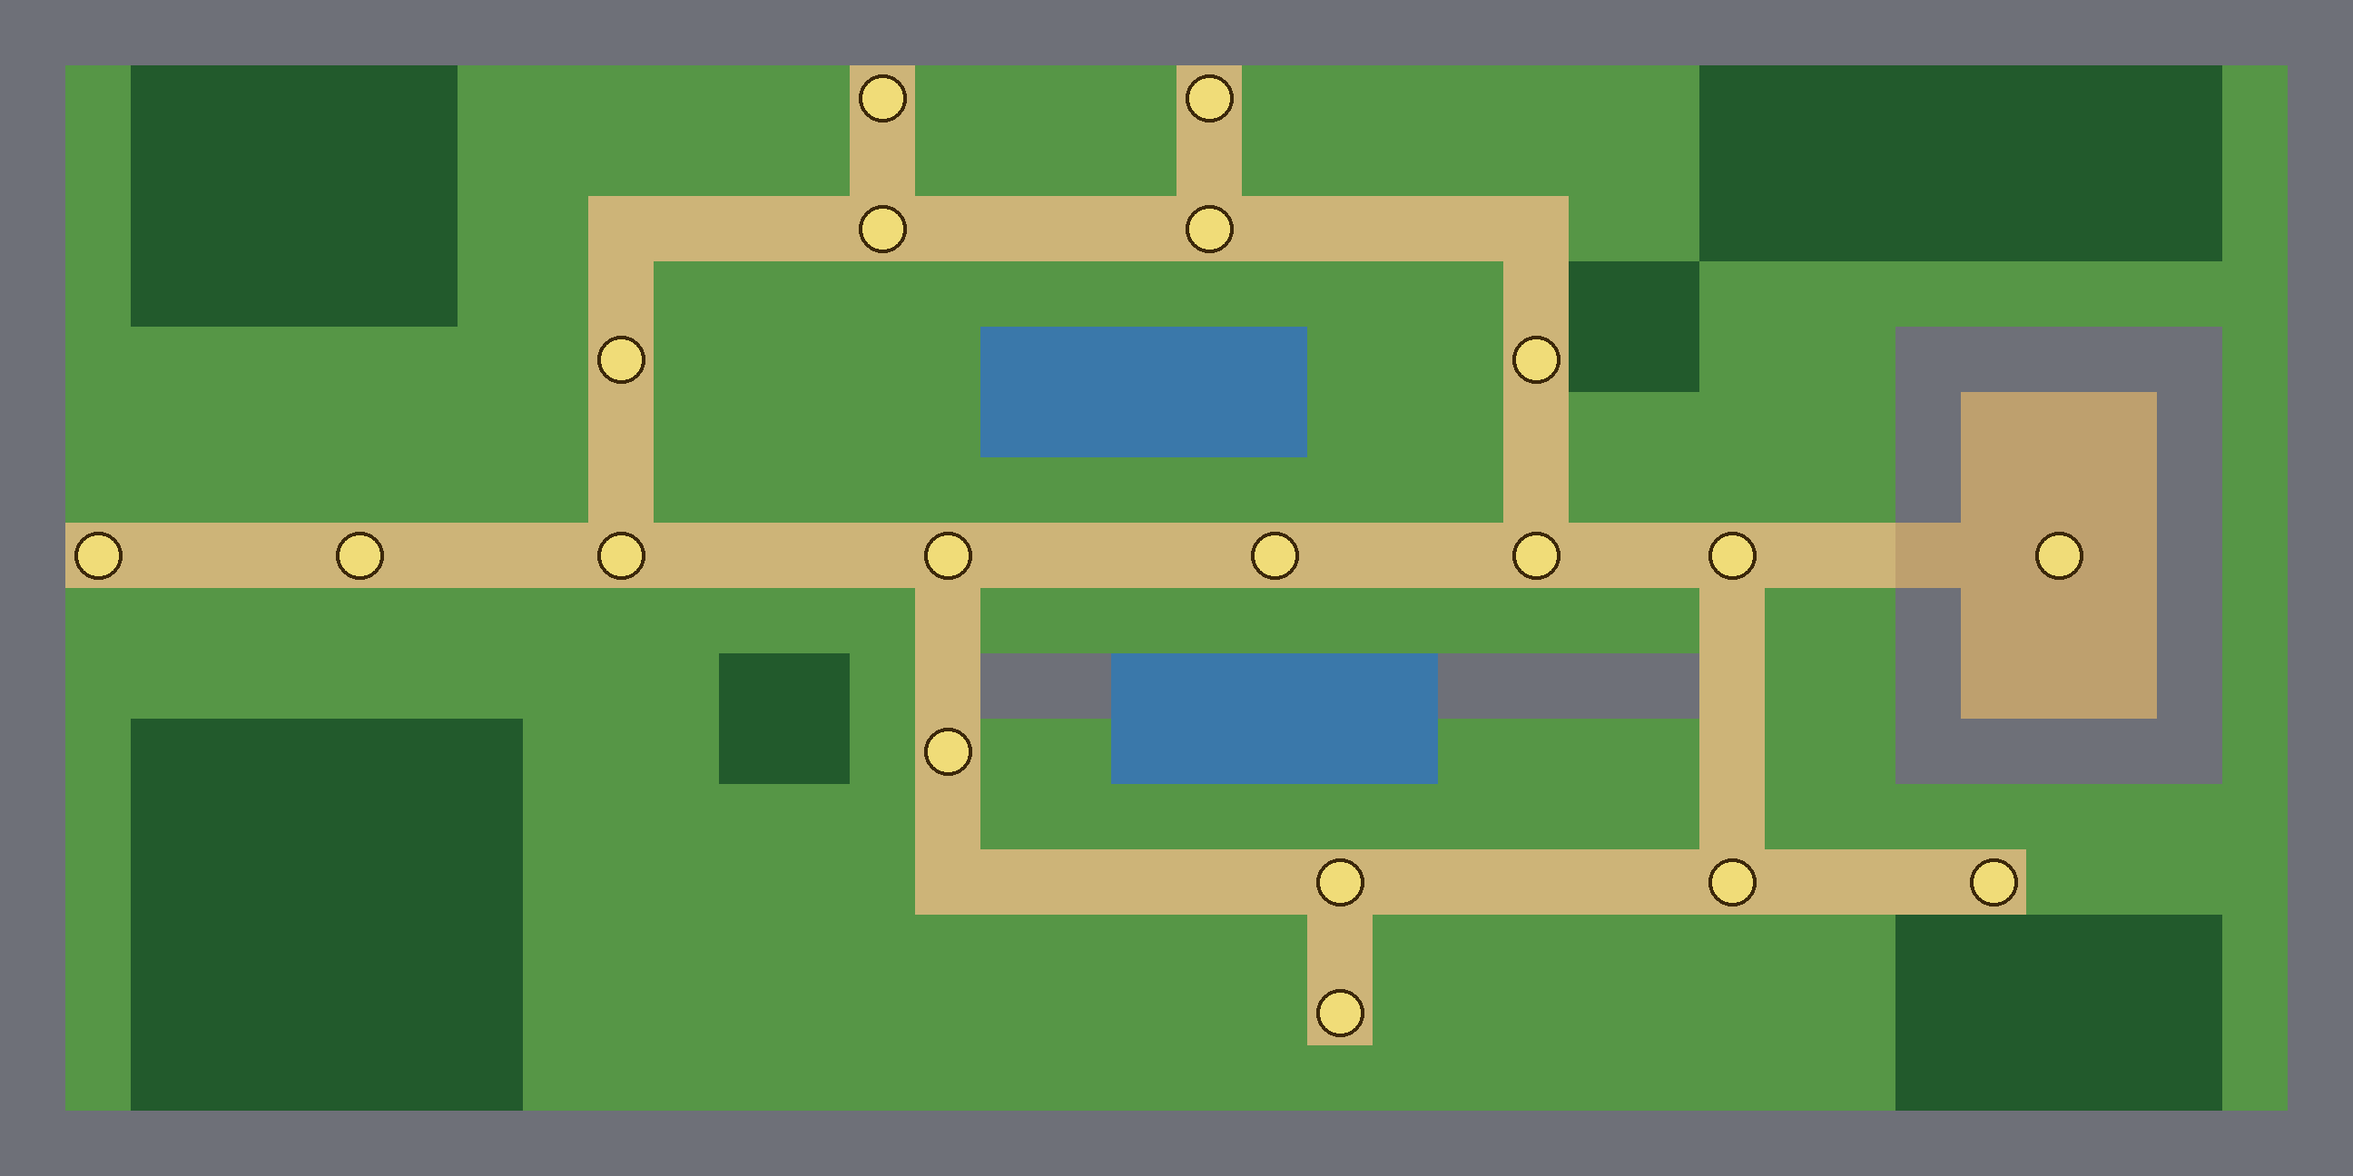
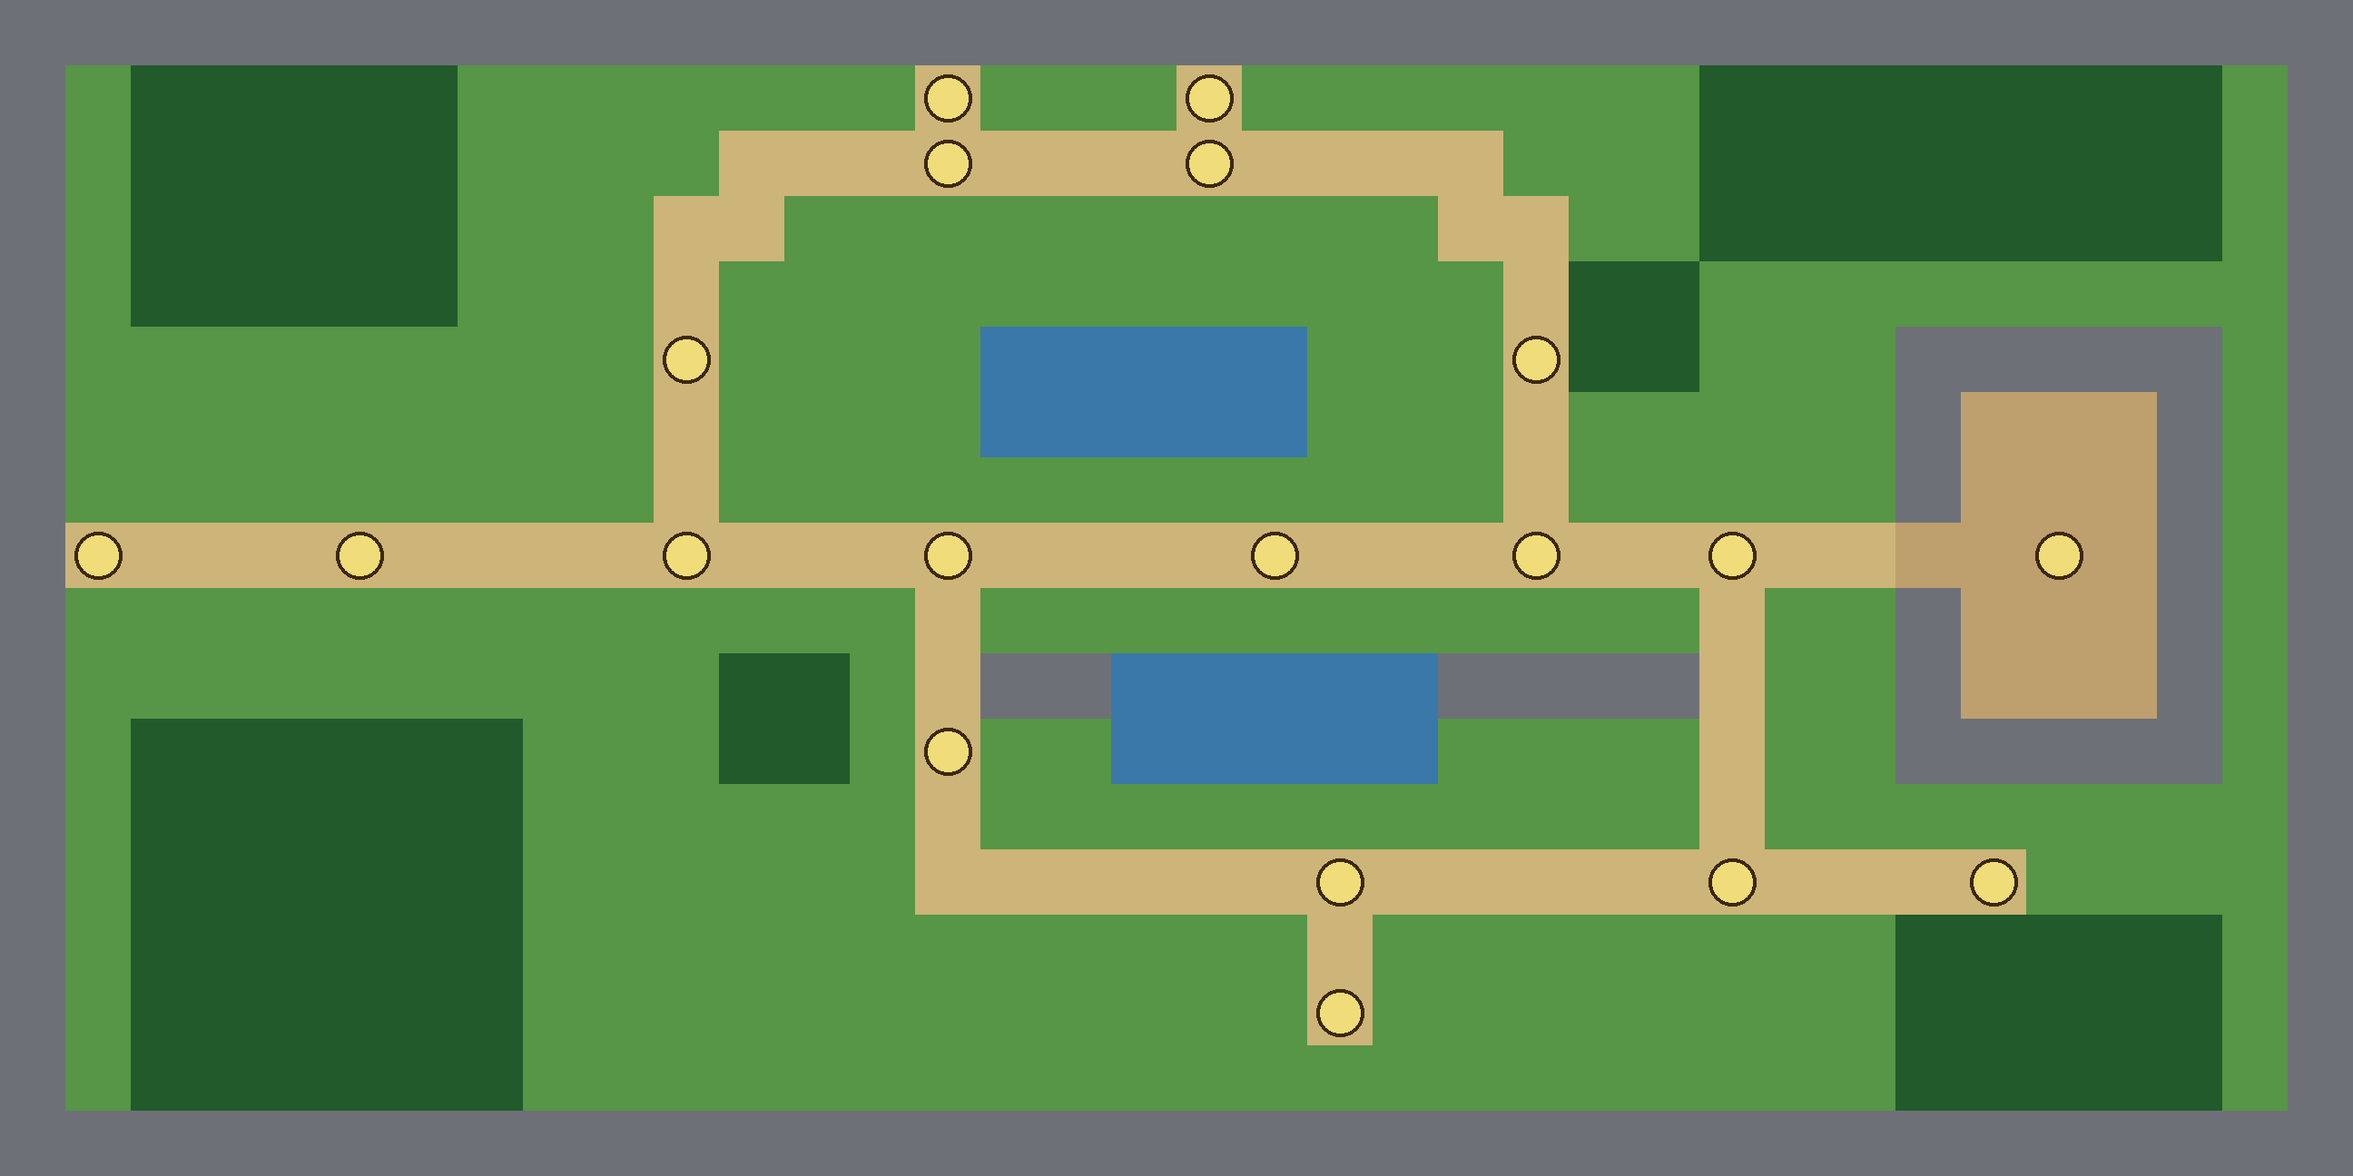
Painted overworld for screen 1, roads traced to it; sustain nerfs (Bind Wound 25%, shop heal 35%, shrine half)
DECISIONS #39. One painting per screen replaces the tileset when present;
a dev overlay (?dev) draws the code's roads over it for alignment. Screen
1's north loop moved to row 2 with its west side at column 10 to match
the painting. scripts/layout-image.py renders the layout reference.

Claude-Session: https://claude.ai/code/session_01KwKjcUHcbFeyUDFfhHkavE

Changed region(s): [[0.2812, 0.0309, 0.6562, 0.2469], [0.25, 0.1543, 0.3125, 0.4938]]

diff --git a/re-rpg/src/game/scenes/OverworldScene.ts b/re-rpg/src/game/scenes/OverworldScene.ts
@@ -16,8 +16,12 @@ import { ensureRun } from '@game/telemetry';
 
 /** World pixels per tile: about 11×5 tiles on a phone, close enough to read the ground. */
 export const TILE = 72;
+/** Dev switches: `localStorage.setItem('rerpg:dev', '1')` or `?dev` in the URL. */
+export const devMode = (): boolean => { try { return localStorage.getItem('rerpg:dev') === '1' || location.search.includes('dev'); } catch { return false; } };
 const K = TILE / 48;
 const STEP_MS = 105;
+/** A shrine heals this share of max HP (DECISIONS #39); it used to heal everything. */
+const SHRINE_HEAL = 0.5;
 
 /**
  * The node overworld (DECISIONS #37). The authored terrain is the backdrop; play happens on the
@@ -84,6 +88,13 @@ export class OverworldScene extends Phaser.Scene {
 
   private drawTiles() {
     const m = this.session.map;
+    // A painted map (docs/ART.md, DECISIONS #39) replaces the tileset when one exists for this screen.
+    const painted = `map_${m.screenIndex + 1}`;
+    if (this.textures.exists(painted)) {
+      this.add.image(0, 0, painted).setOrigin(0).setDisplaySize(m.width * TILE, m.height * TILE).setDepth(1);
+      if (devMode()) this.drawAlignmentOverlay();
+      return;
+    }
     if (!this.hasArt) {
       const fill: Record<string, number> = { grass: 0x3b6d3a, forest: 0x244d2a, swamp: 0x4a5b3a, water: 0x2b5d8a, rock: 0x4a4f5a, road: 0xb8a06a, arena: 0x5a2b3a };
       const g = this.add.graphics().setDepth(1);
@@ -97,6 +108,21 @@ export class OverworldScene extends Phaser.Scene {
     const tileset = tilemap.addTilesetImage('ground', 'ground_c', 96, 96, 0, 0);
     if (tileset) tilemap.createLayer(0, tileset, 0, 0)?.setScale(TILE / 96).setDepth(1);
     for (const p of propsFor(m)) this.add.image(p.x * TILE, p.y * TILE, 'props_c', p.frame).setOrigin(0.5, 1).setScale(p.scale * K).setDepth(2 + p.y / m.height);
+  }
+
+  /** Dev only: the code's roads and node ids over the painting, to line the two up. */
+  private drawAlignmentOverlay() {
+    const m = this.session.map;
+    const g = this.add.graphics().setDepth(3).setAlpha(0.45);
+    for (let y = 0; y < m.height; y++) for (let x = 0; x < m.width; x++) {
+      const t = m.tiles[y * m.width + x]!;
+      if (t === 'road' || t === 'arena') { g.fillStyle(t === 'road' ? 0xff00ff : 0xffff00, 1); g.fillRect(x * TILE + 8, y * TILE + 8, TILE - 16, TILE - 16); }
+      else if (t === 'water') { g.fillStyle(0x00ffff, 1); g.fillRect(x * TILE + 20, y * TILE + 20, TILE - 40, TILE - 40); }
+    }
+    g.lineStyle(1, 0xffffff, 0.25);
+    for (let x = 0; x <= m.width; x++) g.lineBetween(x * TILE, 0, x * TILE, m.height * TILE);
+    for (let y = 0; y <= m.height; y++) g.lineBetween(0, y * TILE, m.width * TILE, y * TILE);
+    for (const n of m.nodes ?? []) this.add.text(n.pos.x * TILE + 4, n.pos.y * TILE + 2, `${n.id.replace('node_', '')} ${n.pos.x},${n.pos.y}`, { fontFamily: FONT, fontSize: '11px', color: '#ffffff', backgroundColor: '#000000aa' }).setDepth(8);
   }
 
   private label(y: number, str: string, color = '#e6e9f2', size = 12) {
@@ -361,8 +387,8 @@ export class OverworldScene extends Phaser.Scene {
       }
       case 'shrine': {
         if (isCleared(s, n)) { void this.toast('The shrine is dark now.', 900); this.locked = false; this.syncRings(); return; }
-        s.hp = s.stats.maxHp;
-        void this.toast('Shrine: fully healed. It fades.');
+        s.hp = Math.min(s.stats.maxHp, s.hp + Math.round(s.stats.maxHp * SHRINE_HEAL));
+        void this.toast('Shrine: half your wounds close. It fades.');
         await done(); return;
       }
       default: {

diff --git a/re-rpg/src/core/combat/engine.test.ts b/re-rpg/src/core/combat/engine.test.ts
@@ -147,15 +147,15 @@ describe('statuses', () => {
     expect(hasStatus(s.enemy, 'exposed')).toBe(false);
   });
 
-  it('Bind Wound heals 35% and leaves you Exposed for two rounds, never blocking anything', () => {
+  it('Bind Wound heals 25% and leaves you Exposed for two rounds, never blocking anything', () => {
     const s = fight(['bind_wound', 'attack'], DUMMY, 1, 10);
-    play(s, 'bind_wound'); // +round(0.35*25)=9 → 19, enemy hits 2 doubled → 15
-    expect(s.player.hp).toBe(15);
+    play(s, 'bind_wound'); // +round(0.25*25)=6 → 16, enemy hits 2 doubled → 12
+    expect(s.player.hp).toBe(12);
     expect(hasStatus(s.player, 'exposed')).toBe(true);
     expect(hasStatus(s.player, 'guard')).toBe(false);
     expect(s.log.some((e) => e.t === 'damage' && e.target === 'player' && e.blocked)).toBe(false);
-    play(s, 'attack'); // still exposed: 2 doubled → 11, then it expires
-    expect(s.player.hp).toBe(11);
+    play(s, 'attack'); // still exposed: 2 doubled → 8, then it expires
+    expect(s.player.hp).toBe(8);
     expect(hasStatus(s.player, 'exposed')).toBe(false);
   });
 
@@ -353,8 +353,8 @@ describe('curse and lifetap', () => {
   it('curse ticks like burn and halves healing while it lasts', () => {
     const s = fight(['bind_wound'], PASSIVE, 1, 10);
     s.player.statuses.push({ id: 'curse', turns: 3, magnitude: 2 });
-    play(s, 'bind_wound'); // heal 9 → halved to 4 → 14; then curse ticks 2 → 12 (passive enemy: Exposed never bites)
-    expect(s.player.hp).toBe(12);
+    play(s, 'bind_wound'); // heal 6 → halved to 3 → 13; then curse ticks 2 → 11 (passive enemy: Exposed never bites)
+    expect(s.player.hp).toBe(11);
     expect(s.log.find((e) => e.t === 'burn')).toMatchObject({ status: 'curse', amount: 2 });
   });
 

diff --git a/re-rpg/src/data/describe.test.ts b/re-rpg/src/data/describe.test.ts
@@ -22,7 +22,7 @@ describe('describeSkill', () => {
   });
 
   it('covers heals, guards, statuses, multi-hit and lifesteal', () => {
-    expect(describeSkill(getSkill('bind_wound'), warrior)).toBe('Heal 9 HP. You are Exposed for 2 rounds. Once per fight.');
+    expect(describeSkill(getSkill('bind_wound'), warrior)).toBe('Heal 6 HP. You are Exposed for 2 rounds. Once per fight.');
     expect(describeSkill(getSkill('ice_armor'), warrior)).toBe('Block the next 2 physical hits.');
     expect(describeSkill(getSkill('fireball'), { maxHp: 20, atk: 5, def: 0 })).toBe('Deal 8 magic damage. Burn 2 per round for 2 rounds.');
     expect(describeSkill(getSkill('frost_bolt'), { maxHp: 20, atk: 5, def: 0 })).toBe('Deal 6 magic damage. 65% chance: Chill: the enemy skips its next action.');
@@ -47,7 +47,7 @@ describe('cardFace', () => {
     expect(cardFace(getSkill('attack'), warrior)).toEqual({ kind: 'attack', value: '4', unit: 'damage' });
     expect(cardFace(getSkill('defend'), warrior)).toEqual({ kind: 'defense', value: '1', unit: 'hit' });
     expect(cardFace(getSkill('ward'), warrior)).toEqual({ kind: 'defense', value: '1', unit: 'spell' });
-    expect(cardFace(getSkill('bind_wound'), warrior)).toEqual({ kind: 'heal', value: '9', unit: 'heal' });
+    expect(cardFace(getSkill('bind_wound'), warrior)).toEqual({ kind: 'heal', value: '6', unit: 'heal' });
     expect(cardFace(getSkill('fireball'), warrior)).toEqual({ kind: 'magic', value: '6', unit: 'magic' });
     expect(cardFace(getSkill('ice_armor'), warrior)).toEqual({ kind: 'defense', value: '2', unit: 'hits' });
     expect(cardFace(getSkill('static_field'), warrior)).toEqual({ kind: 'magic', value: '3×3', unit: 'burn' });

diff --git a/re-rpg/src/data/skills.ts b/re-rpg/src/data/skills.ts
@@ -30,8 +30,8 @@ export const SKILLS: Skill[] = [
   { id: 'shield_bash', name: 'Shield Bash', text: 'Deal 60% damage and block the next hit. Tiring: Weak next turn.', classId: 'warrior', setId: 'warrior_tank', rarity: 'common',
     effects: [{ type: 'damage', mult: 0.6 }, { type: 'status', target: 'self', status: 'guard', turns: 99, magnitude: 1 }, { type: 'status', target: 'self', status: 'weak', turns: 2 }] },
   // Once per fight (DECISIONS #38): a second and third Bind Wound in a long duo fight healed back most of what duos deal.
-  { id: 'bind_wound', name: 'Bind Wound', text: 'Heal 35% HP. You are Exposed for 2 rounds.', classId: 'warrior', setId: 'warrior_tank', rarity: 'uncommon', uses: 'once_per_fight',
-    effects: [{ type: 'heal', pct: 0.35 }, { type: 'status', target: 'self', status: 'exposed', turns: 2 }] },
+  { id: 'bind_wound', name: 'Bind Wound', text: 'Heal 25% HP. You are Exposed for 2 rounds.', classId: 'warrior', setId: 'warrior_tank', rarity: 'uncommon', uses: 'once_per_fight',
+    effects: [{ type: 'heal', pct: 0.25 }, { type: 'status', target: 'self', status: 'exposed', turns: 2 }] },
 
   // Warrior / DPS
   { id: 'broadsword', name: 'Broadsword Strike', text: 'Deal 100% + 4 damage. You overextend: Exposed this round.', classId: 'warrior', setId: 'warrior_dps', rarity: 'common',

diff --git a/re-rpg/src/data/maps/screen1.ts b/re-rpg/src/data/maps/screen1.ts
@@ -1,18 +1,18 @@
 /**
  * Screen 1: the Gate Road (DECISIONS #37, node overworld). A static network of clearings joined by
- * roads; what each open slot holds is rolled per run. Generated by scripts/author-map.py forest;
- * legend in core/map/authored.ts.
+ * roads; what each open slot holds is rolled per run. Roads are traced from the painted map
+ * (public/art/c/map1.jpg). Generated by scripts/author-map.py forest; legend in core/map/authored.ts.
  */
 export const SCREEN1 = `
 ^^^^^^^^^^^^^^^^^^^^^^^^^^^^^^^^^^^^
-^.#####......o....o.......########.^
-^.#####......=....=.......########.^
-^.#####..====o====o=====..########.^
-^.#####..=.............=##.........^
-^........o.....~~~~~...o##...^^^^^.^
-^........=.....~~~~~...=.....^AAA^.^
-^........=.............=.....^AAA^.^
-^E===o===q====o====o===o==x==AABA^.^
+^.#####.......o...o.......########.^
+^.#####....===o===o====...########.^
+^.#####...==..........==..########.^
+^.#####...=............=##.........^
+^.........o....~~~~~...o##...^^^^^.^
+^.........=....~~~~~...=.....^AAA^.^
+^.........=............=.....^AAA^.^
+^E===o====q===o====o===o==x==AABA^.^
 ^.............=...........=..^AAA^.^
 ^..........##.=^^~~~~~^^^^=..^AAA^.^
 ^.######...##.o..~~~~~....=..^^^^^.^

diff --git a/re-rpg/src/data/maps/screen2.ts b/re-rpg/src/data/maps/screen2.ts
@@ -3,14 +3,14 @@
  */
 export const SCREEN2 = `
 ^^^^^^^^^^^^^^^^^^^^^^^^^^^^^^^^^^^^
-^.%%%%%......o....o.......%%%%%%%%.^
-^.%%%%%......=....=.......%%%%%%%%.^
-^.%%%%%..====o====o=====..%%%%%%%%.^
-^.%%%%%..=.............=%%.........^
-^........o.....~~~~~...o%%...^^^^^.^
-^........=.....~~~~~...=.....^AAA^.^
-^........=.............=.....^AAA^.^
-^E===o===q====o====o===o==x==AABA^.^
+^.%%%%%.......o...o.......%%%%%%%%.^
+^.%%%%%....===o===o====...%%%%%%%%.^
+^.%%%%%...==..........==..%%%%%%%%.^
+^.%%%%%...=............=%%.........^
+^.........o....~~~~~...o%%...^^^^^.^
+^.........=....~~~~~...=.....^AAA^.^
+^.........=............=.....^AAA^.^
+^E===o====q===o====o===o==x==AABA^.^
 ^.............=...........=..^AAA^.^
 ^..........%%.=^^~~~~~^^^^=..^AAA^.^
 ^.%%%%%%...%%.o..~~~~~....=..^^^^^.^

diff --git a/re-rpg/src/core/loot/index.ts b/re-rpg/src/core/loot/index.ts
@@ -143,5 +143,5 @@ export function rollShopStock(screenIndex: number, ctx: PoolContext, rng: Rng): 
     const skill = rng.weighted(pool.tomes, (s) => Math.max(1, rw[s.rarity] ?? 0));
     lines.push({ kind: 'tome', id: skill.id, price: tomePrice(skill.rarity, screenIndex), sold: false });
   }
-  return { lines, healPrice: 30 * (screenIndex + 1), healPct: 0.5, healUsed: false };
+  return { lines, healPrice: 30 * (screenIndex + 1), healPct: 0.35, healUsed: false };
 }

diff --git a/re-rpg/src/game/scenes/BootScene.ts b/re-rpg/src/game/scenes/BootScene.ts
@@ -24,6 +24,7 @@ export const ART_FILES: Record<string, string> = {
   enemy_rat_pack_c: 'art/c/rat_pack@2x.png',
   enemy_gatekeeper_c: 'art/c/gatekeeper@2x.png', // Knight Andre
   bg_forest: 'art/c/bg_forest.jpg',
+  map_1: 'art/c/map1.jpg', // painted screen 1 (docs/ART.md); the tileset draws when a screen has no painting
 };
 
 /** Wires persistence and loads meta before the title shows. Optional art loads here too. */

diff --git a/re-rpg/scripts/author-map.py b/re-rpg/scripts/author-map.py
@@ -27,13 +27,13 @@ def screen(biome):
     # main road and arena
     hline(g, 8, 1, 28)
     rect(g, 29, 5, 33, 11, '^'); rect(g, 30, 6, 32, 10, 'A'); put(g, 29, 8, 'A'); put(g, 31, 8, 'B')
-    # north lane with two spurs
-    vline(g, 9, 3, 7); hline(g, 3, 9, 23); vline(g, 23, 4, 7); vline(g, 13, 1, 2); vline(g, 18, 1, 2)
+    # north lane with two spurs (traced from the screen-1 painting: row 2, west side at x=10, rounded corners)
+    vline(g, 10, 3, 7); hline(g, 2, 11, 22); put(g, 11, 3, '='); put(g, 22, 3, '='); put(g, 23, 3, '='); vline(g, 23, 4, 7); put(g, 14, 1, '='); put(g, 18, 1, '=')
     # south lane with a spur and the road east to the lost one
     vline(g, 14, 9, 13); hline(g, 13, 14, 30); vline(g, 26, 9, 12); vline(g, 20, 14, 15)
     # nodes: every road junction is a node, so a link never forks between nodes
-    put(g, 1, 8, 'E'); put(g, 5, 8, 'o'); put(g, 9, 8, 'q'); put(g, 14, 8, 'o'); put(g, 19, 8, 'o'); put(g, 23, 8, 'o'); put(g, 26, 8, 'x')
-    put(g, 9, 5, 'o'); put(g, 13, 3, 'o'); put(g, 13, 1, 'o'); put(g, 18, 3, 'o'); put(g, 18, 1, 'o'); put(g, 23, 5, 'o')
+    put(g, 1, 8, 'E'); put(g, 5, 8, 'o'); put(g, 10, 8, 'q'); put(g, 14, 8, 'o'); put(g, 19, 8, 'o'); put(g, 23, 8, 'o'); put(g, 26, 8, 'x')
+    put(g, 10, 5, 'o'); put(g, 14, 2, 'o'); put(g, 14, 1, 'o'); put(g, 18, 2, 'o'); put(g, 18, 1, 'o'); put(g, 23, 5, 'o')
     put(g, 14, 11, 'o'); put(g, 20, 13, 'x'); put(g, 20, 15, 'o'); put(g, 26, 13, 'o'); put(g, 30, 13, 'n')
     # a rock bar so the south lane is only entered at its two ends
     hline(g, 10, 15, 16, '^'); hline(g, 10, 22, 25, '^')

diff --git a/re-rpg/docs/ART.md b/re-rpg/docs/ART.md
@@ -147,3 +147,24 @@ Same flat vector cel-shaded style sheet as the others. Prompt:
 
 Cut with `scripts/cut-sprite.py <src> public/art/c wren 230` and add `enemy_wren_c` to
 `BootScene.ART_FILES`. Until then she is the purple placeholder.
+
+## Painted overworld maps (DECISIONS #39)
+
+One painting per screen, 2592×1296 (36×18 tiles at 72 px), saved as `public/art/c/map<N>.jpg`
+around 85% quality. Process:
+
+1. `python3 scripts/layout-image.py screen1 art-src/layout-screen1.png` renders the flat layout
+   with gold dots on the node clearings.
+2. Generate image-to-image from that file at moderate strength (about 0.5–0.6) with the prompt
+   below, so the composition survives and only the rendering changes.
+3. Drop the result in, open the game with `?dev` and compare the magenta road overlay to the
+   painting; move the ASCII roads in `scripts/author-map.py` to the painting, never the reverse.
+   Every road junction must stay a node.
+
+Prompt (screen 1): top-down three-quarter view fantasy map painting of a forest valley, flat vector
+cel-shaded style with thick clean outlines and a limited saturated palette, consistent soft light
+from the top left; keep the exact layout of the reference (winding dirt road west to a walled stone
+arena in the east, a northern loop around a lake, a southern loop past a smaller lake, short spur
+paths, dense forest in the corners, rocky cliff edges); each gold dot is an open grassy clearing on
+the road with nothing in it; no text, icons, characters or UI. For screen 2 swap the forest for
+marsh: reeds, standing water, dead trees, mist, the arena half drowned.

diff --git a/re-rpg/docs/DECISIONS.md b/re-rpg/docs/DECISIONS.md
@@ -158,3 +158,15 @@ healed 80 of it back, 7 Bind Wound plays doing most of that. Duos were the only 
 round twice or three times. Bind Wound is now once per fight: still the emergency button, no longer
 a loop. Two copies in the deck still mean two heals. If duos still feel soft after this, the next
 levers are the shop heal price and the shrine healing half rather than full.
+
+## 39. Painted overworld backdrops; sustain nerfs
+
+Each screen can carry one painted map (`public/art/c/map<N>.jpg`, texture `map_<N>`); when it
+exists it replaces the tileset and props for that screen, and the node markers, hero and ghost
+stand on it. Pipeline (docs/ART.md): `scripts/layout-image.py` renders the ASCII layout at
+in-game size, the painting is generated image-to-image from it, then the dev overlay
+(`?dev` or `localStorage rerpg:dev=1`) draws the code's roads over the painting and the ASCII is
+moved to match. Screen 1 is painted; the tileset still draws screen 2 until it is.
+Sustain, after the first node-map playthrough healed back most of the duo damage: Bind Wound
+heals 25% (was 35%) and is once per fight (#38), the shop heal restores 35% (was 50%), the
+shrine heals half (was full).

diff --git a/re-rpg/docs/NEXT.md b/re-rpg/docs/NEXT.md
@@ -259,3 +259,10 @@ Wren → tinker → re-armed fight → tinker). Next for this layer:
 3. Marker polish: an "entered" tick on cleared calm nodes, a route preview line when a node is
    tapped, the ghost marker offset.
 4. Bag tuning from play: 13 open slots, 1 shop, 1 shrine, 3 treasures, 8 monsters (3 unknown).
+
+## 14. Painted map shipped (2026-10-26)
+
+Screen 1 has its painting; the roads were traced to it (north loop row 2, west side column 10).
+Open: the screen-2 painting from `art-src/layout-screen2.png`; a little life on the painting (lake
+shimmer, drifting cloud shadows, fireflies at clearings); painted node icons to replace the prop
+sprites; the Wren still.
